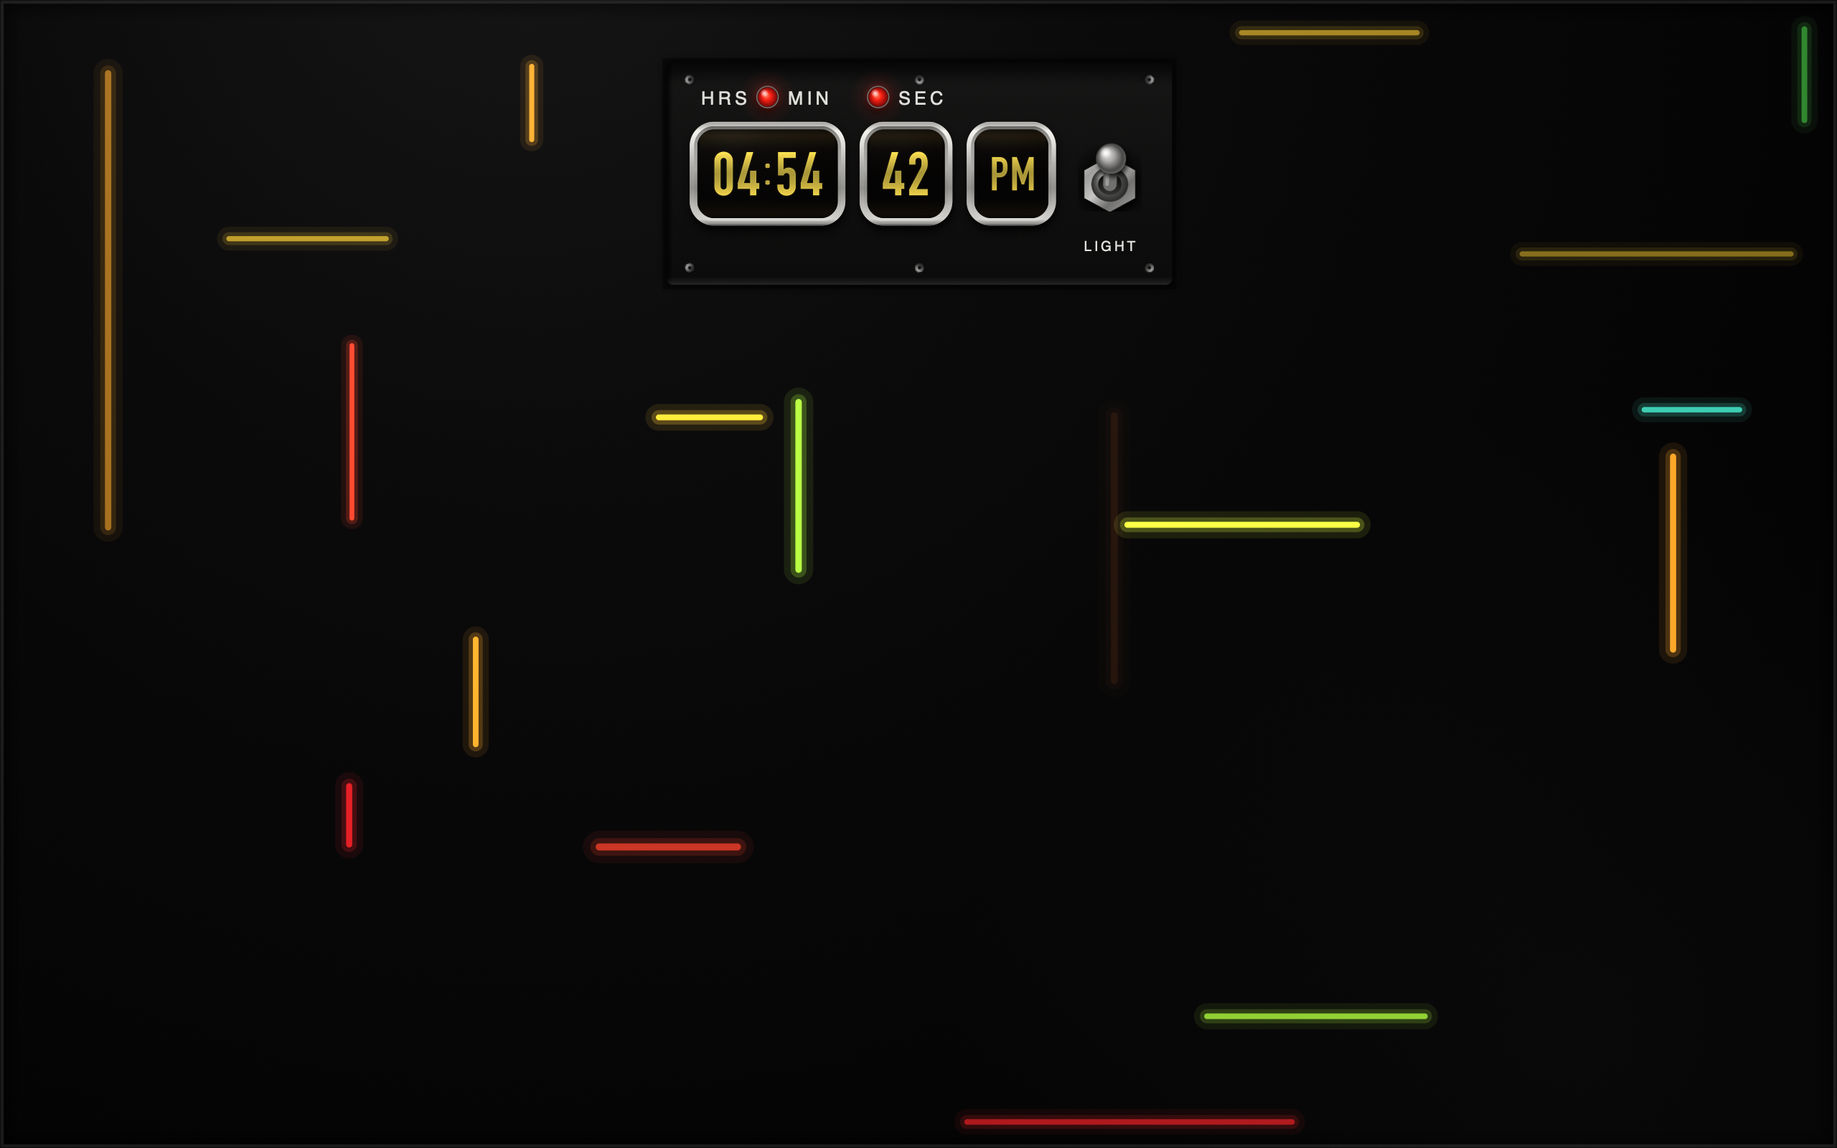
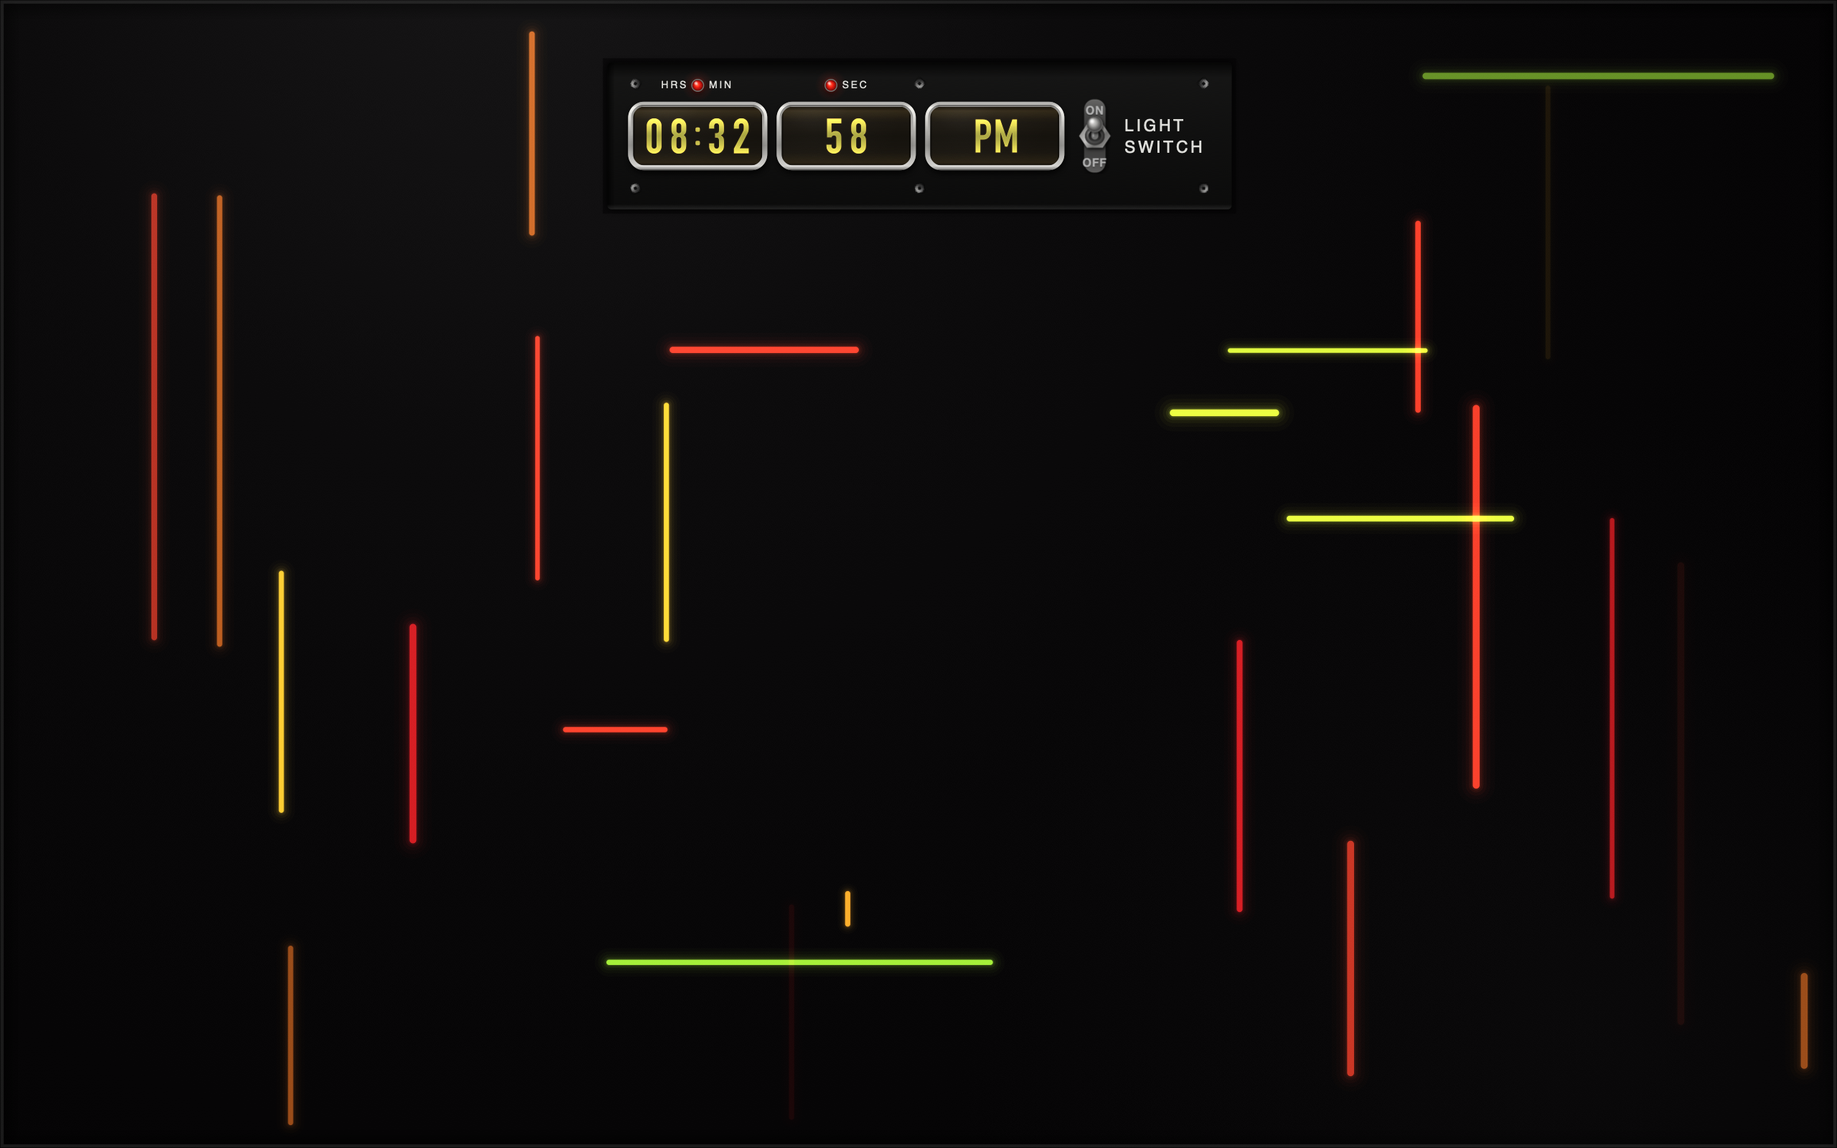
Visible barrel, matched windows, mounted switch, smooth diffusion
- The drum is a dark warm grey surface rather than black. Against black the
  numerals had nothing to sit on and simply floated.
- All three apertures are one size at a chosen 2.2:1. Window width used to be
  whatever remained after the switch and gaps were subtracted, which is how
  they drifted to slightly taller than wide.
- CounterWindow accepts a fixed pitch, so windows of equal width holding two
  and five characters draw their digits at the same size. Without it each
  window scaled to fill itself and PM came out far larger than the clock.
- The toggle is on its ON/OFF mounting plate with the hex nut overhanging the
  plate edges, and the legend is set left-justified on two lines beside it.
- Bar diffusion falls off over six steps instead of three. Three widely spaced
  passes left the outermost with a hard boundary, which read as an outline
  drawn around the glow.

Two bugs fixed:

- Roll distance was keyed to digit height alone. Once the shared pitch made
  glyphs small relative to the aperture, the outgoing digit had not cleared
  before the incoming one arrived and both readings showed at once, stacked.
  It now also accounts for aperture height.
- The bloom pass loop was hardcoded to three iterations, so widening the ramp
  to six drew only the three dimmest passes and the core never rendered. It
  follows the array's indices now.

diff --git a/src/Hardware.swift b/src/Hardware.swift
@@ -171,17 +171,15 @@ enum Hardware {
     /// frame.
     private static var toggleCache: [Int: CGImage] = [:]
 
-    /// Image proportions: a little taller than wide, the nut low and the lever
-    /// rising out of it.
-    static let toggleAspect: CGFloat = 1.18
+    /// Image proportions: a tall mounting plate with the nut across its waist.
+    static let toggleAspect: CGFloat = 2.35
 
-    /// A bat-handle toggle as it appears on the prop: a chrome hex nut set into
-    /// the panel with a ball-tipped lever thrown up out of it. No ON/OFF
-    /// escutcheon — on the show the caption is printed on the panel alongside,
-    /// and the stamped plate is what forced the fitting to be large.
+    /// A bat-handle toggle on its mounting plate: ON stamped at the top, OFF at
+    /// the bottom, a hex nut across the waist whose points stand out past the
+    /// plate edges, and a ball-tipped lever thrown up out of the bushing.
     static func drawToggle(_ ctx: CGContext, at c: CGPoint, scale s: CGFloat,
                            thrownUp: Bool = true) {
-        let px = max(20, Int((s * 3.0).rounded()))
+        let px = max(24, Int((s * 3.0).rounded()))
         let img: CGImage
         if let cached = toggleCache[px] {
             img = cached
@@ -204,29 +202,63 @@ enum Hardware {
                                   bitmapInfo: CGImageAlphaInfo.premultipliedFirst.rawValue)
         else { return nil }
 
-        let nutC = CGPoint(x: W / 2, y: H * 0.36)
-        let nutR = W * 0.46
+        let mid = CGPoint(x: W / 2, y: H / 2)
 
-        // The panel opening the bushing passes through.
+        // Mounting plate. Narrower than the image so the nut can overhang it.
+        let plate = CGRect(x: W * 0.17, y: H * 0.015, width: W * 0.66, height: H * 0.97)
+        let pr = plate.width * 0.46
         ctx.saveGState()
-        if let g = grad([(0.0, black(0.55)), (1.0, black(0.0))]) {
-            ctx.drawRadialGradient(g, startCenter: nutC, startRadius: nutR * 0.9,
-                                   endCenter: nutC, endRadius: nutR * 1.45, options: [])
+        ctx.setShadow(offset: CGSize(width: W * 0.035, height: -W * 0.06),
+                      blur: W * 0.14, color: black(0.85))
+        ctx.addPath(CGPath(roundedRect: plate, cornerWidth: pr, cornerHeight: pr, transform: nil))
+        ctx.setFillColor(steel(0.26))
+        ctx.fillPath()
+        ctx.restoreGState()
+
+        ctx.saveGState()
+        ctx.addPath(CGPath(roundedRect: plate, cornerWidth: pr, cornerHeight: pr, transform: nil))
+        ctx.clip()
+        if let g = grad([(0.00, steel(0.40)), (0.22, steel(0.27)), (0.50, steel(0.20)),
+                         (0.78, steel(0.26)), (1.00, steel(0.36))]) {
+            ctx.drawLinearGradient(g, start: CGPoint(x: plate.minX, y: plate.maxY),
+                                   end: CGPoint(x: plate.minX, y: plate.minY), options: [])
         }
         ctx.restoreGState()
 
-        // Hex nut, flats catching the light differently around the turn.
+        // ON / OFF, raised off the plate: a light face with a dark edge beneath.
+        func stamped(_ text: String, cy: CGFloat, size: CGFloat) {
+            let font = NSFont(name: "Helvetica-Bold", size: size) ?? .boldSystemFont(ofSize: size)
+            let passes: [(CGFloat, NSColor)] = [
+                (-size * 0.06, NSColor(white: 0.04, alpha: 0.85)),   // shadow under the relief
+                (0.0, NSColor(white: 0.78, alpha: 0.95)),            // the raised face
+            ]
+            NSGraphicsContext.saveGraphicsState()
+            NSGraphicsContext.current = NSGraphicsContext(cgContext: ctx, flipped: false)
+            for (dy, col) in passes {
+                let a = NSAttributedString(string: text, attributes: [
+                    .font: font, .foregroundColor: col, .kern: size * 0.04,
+                ])
+                let sz = a.size()
+                a.draw(at: NSPoint(x: mid.x - sz.width / 2, y: cy - sz.height / 2 + dy))
+            }
+            NSGraphicsContext.restoreGraphicsState()
+        }
+        stamped("ON",  cy: H * 0.845, size: W * 0.36)
+        stamped("OFF", cy: H * 0.150, size: W * 0.36)
+
+        // Hex nut across the waist, points overhanging the plate.
+        let nutR = W * 0.49
         let hex = CGMutablePath()
         for k in 0 ..< 6 {
-            let a = CGFloat(k) / 6 * .pi * 2 + .pi / 6
-            let p = CGPoint(x: nutC.x + cos(a) * nutR, y: nutC.y + sin(a) * nutR * 0.94)
+            let a = CGFloat(k) / 6 * .pi * 2
+            let p = CGPoint(x: mid.x + cos(a) * nutR, y: mid.y + sin(a) * nutR * 0.86)
             if k == 0 { hex.move(to: p) } else { hex.addLine(to: p) }
         }
         hex.closeSubpath()
 
         ctx.saveGState()
         ctx.setShadow(offset: CGSize(width: W * 0.03, height: -W * 0.05),
-                      blur: W * 0.09, color: black(0.8))
+                      blur: W * 0.10, color: black(0.8))
         ctx.addPath(hex)
         ctx.setFillColor(steel(0.5))
         ctx.fillPath()
@@ -235,54 +267,52 @@ enum Hardware {
         ctx.saveGState()
         ctx.addPath(hex)
         ctx.clip()
-        if let g = grad([(0.00, steel(0.88)), (0.24, steel(0.62)), (0.46, steel(0.78)),
-                         (0.66, steel(0.44)), (0.86, steel(0.58)), (1.00, steel(0.28))]) {
-            ctx.drawLinearGradient(g, start: CGPoint(x: nutC.x - nutR, y: nutC.y + nutR),
-                                   end: CGPoint(x: nutC.x + nutR, y: nutC.y - nutR), options: [])
+        if let g = grad([(0.00, steel(0.86)), (0.22, steel(0.58)), (0.44, steel(0.76)),
+                         (0.64, steel(0.42)), (0.84, steel(0.56)), (1.00, steel(0.26))]) {
+            ctx.drawLinearGradient(g, start: CGPoint(x: mid.x - nutR, y: mid.y + nutR),
+                                   end: CGPoint(x: mid.x + nutR, y: mid.y - nutR), options: [])
         }
         ctx.restoreGState()
 
-        // Bushing collar inside the nut.
+        // Bushing, then the dark recess the lever comes out of.
         ctx.saveGState()
-        let br = W * 0.29
-        ctx.addEllipse(in: CGRect(x: nutC.x - br, y: nutC.y - br * 0.94,
-                                  width: br * 2, height: br * 1.88))
+        let br = W * 0.31
+        ctx.addEllipse(in: CGRect(x: mid.x - br, y: mid.y - br * 0.92,
+                                  width: br * 2, height: br * 1.84))
         ctx.clip()
-        if let g = grad([(0.0, steel(0.74)), (0.5, steel(0.40)), (1.0, steel(0.16))]) {
-            ctx.drawRadialGradient(g, startCenter: CGPoint(x: nutC.x - br * 0.4, y: nutC.y + br * 0.4),
-                                   startRadius: 0, endCenter: nutC, endRadius: br, options: [])
+        if let g = grad([(0.0, steel(0.78)), (0.5, steel(0.42)), (1.0, steel(0.16))]) {
+            ctx.drawRadialGradient(g, startCenter: CGPoint(x: mid.x - br * 0.4, y: mid.y + br * 0.4),
+                                   startRadius: 0, endCenter: mid, endRadius: br, options: [])
         }
         ctx.restoreGState()
-
-        // The dark recess the lever emerges from.
         ctx.saveGState()
-        let rr = W * 0.185
-        ctx.addEllipse(in: CGRect(x: nutC.x - rr, y: nutC.y - rr * 0.9,
+        let rr = W * 0.20
+        ctx.addEllipse(in: CGRect(x: mid.x - rr, y: mid.y - rr * 0.9,
                                   width: rr * 2, height: rr * 1.8))
         ctx.clip()
-        if let g = grad([(0.0, black(0.95)), (1.0, steel(0.22))]) {
-            ctx.drawLinearGradient(g, start: CGPoint(x: nutC.x, y: nutC.y + rr),
-                                   end: CGPoint(x: nutC.x, y: nutC.y - rr), options: [])
+        if let g = grad([(0.0, black(0.95)), (1.0, steel(0.24))]) {
+            ctx.drawLinearGradient(g, start: CGPoint(x: mid.x, y: mid.y + rr),
+                                   end: CGPoint(x: mid.x, y: mid.y - rr), options: [])
         }
         ctx.restoreGState()
 
-        // Lever thrown up, foreshortened, with a ball tip.
-        let ballC = CGPoint(x: nutC.x + W * 0.02, y: nutC.y + W * 0.40)
+        // Lever thrown up, with a ball tip.
+        let ballC = CGPoint(x: mid.x, y: mid.y + W * 0.36)
         ctx.saveGState()
         ctx.setLineCap(.round)
         ctx.setStrokeColor(steel(0.44))
-        ctx.setLineWidth(W * 0.215)
-        ctx.move(to: nutC)
+        ctx.setLineWidth(W * 0.22)
+        ctx.move(to: mid)
         ctx.addLine(to: ballC)
         ctx.strokePath()
-        ctx.setStrokeColor(white(0.34))
+        ctx.setStrokeColor(white(0.32))
         ctx.setLineWidth(W * 0.055)
-        ctx.move(to: CGPoint(x: nutC.x - W * 0.045, y: nutC.y))
+        ctx.move(to: CGPoint(x: mid.x - W * 0.045, y: mid.y))
         ctx.addLine(to: CGPoint(x: ballC.x - W * 0.045, y: ballC.y - W * 0.04))
         ctx.strokePath()
         ctx.restoreGState()
 
-        let ballR = W * 0.235
+        let ballR = W * 0.245
         ctx.saveGState()
         ctx.setShadow(offset: CGSize(width: W * 0.035, height: -W * 0.05),
                       blur: W * 0.08, color: black(0.75))
@@ -295,7 +325,7 @@ enum Hardware {
                                   width: ballR * 2, height: ballR * 2))
         ctx.clip()
         if let g = grad([(0.0, steel(0.97)), (0.40, steel(0.66)),
-                         (0.78, steel(0.28)), (1.0, steel(0.44))]) {
+                         (0.78, steel(0.28)), (1.0, steel(0.46))]) {
             ctx.drawRadialGradient(g,
                                    startCenter: CGPoint(x: ballC.x - ballR * 0.36,
                                                         y: ballC.y + ballR * 0.38),

diff --git a/src/M5ClockView.swift b/src/M5ClockView.swift
@@ -21,6 +21,9 @@ public class M5ClockView: M5PanelView {
     private var clockTime: TimeInterval = 0
     private var clockDrift: Double = 0
 
+    /// Aperture proportion: wide rather than square, as on the prop.
+    private static let windowAspect: CGFloat = 2.2
+
     /// How far the module wanders, as a fraction of the smaller screen
     /// dimension. Small, because it is already close to an edge.
     private static let driftAmp: CGFloat = 0.010
@@ -42,8 +45,8 @@ public class M5ClockView: M5PanelView {
     /// The module plate for a given drift offset. Derived from `bounds` only,
     /// so it is safe to call before the subclass is fully set up.
     private func plate(offsetBy d: CGSize) -> CGRect {
-        let w = min(bounds.width * 0.275, bounds.height * 0.54)
-        let h = w * 0.44
+        let w = min(bounds.width * 0.340, bounds.height * 0.68)
+        let h = w * 0.235
         return CGRect(x: bounds.midX - w / 2 + d.width,
                       y: bounds.maxY - h - bounds.height * 0.055 + d.height,
                       width: w, height: h)
@@ -120,22 +123,31 @@ public class M5ClockView: M5PanelView {
         // One digit pitch across all three, so the widths follow real content
         // rather than character count and the drums look like one instrument.
         // The switch shares the readout row rather than taking a second one.
-        let togS = winH * 0.72
-        let togSlot = togS + gap
+        // Sized by height: the plate is 2.35x as tall as it is wide.
+        let togS = winH * 0.55
+        let capSize = winH * 0.28
+        let capW = max(CounterChrome.labelWidth("LIGHT", size: capSize),
+                       CounterChrome.labelWidth("SWITCH", size: capSize))
+        let capClear = togS * 0.42
+        let togSlot = togS + capClear + capW + gap
 
-        let totalUnits = texts.reduce(CGFloat(0)) { $0 + CounterWindow.units(for: $1) }
-        let totalPad = CGFloat(texts.count) * 2 * winH * CounterWindow.padFraction
+        // Every window the same size and a chosen proportion. Dividing up
+        // whatever space is left over gives the apertures an arbitrary shape —
+        // that is how they ended up nearly square.
+        let eachW = winH * M5ClockView.windowAspect
+        let widestUnits = texts.reduce(CGFloat(0)) { max($0, CounterWindow.units(for: $1)) }
         let gaps = gap * CGFloat(texts.count - 1)
-        let pitch = max(1, (content - togSlot - gaps - totalPad) / max(1, totalUnits))
+        let pitch = max(1, (eachW - 2 * winH * CounterWindow.padFraction) / max(1, widestUnits))
 
-        let lampR = p.height * 0.043
+        let lampR = p.height * 0.036
         let lampY = p.maxY - p.height * 0.155
-        let labelSize = p.height * 0.082
+        let labelSize = p.height * 0.068
 
-        var x = p.midX - content / 2
+        let groupW = eachW * CGFloat(texts.count) + gaps + togSlot
+        var x = p.midX - groupW / 2
         for (i, text) in texts.enumerated() {
-            let w = CounterWindow.apertureWidth(for: text, pitch: pitch, height: winH)
-            let r = CGRect(x: x, y: winY, width: w, height: winH)
+            let r = CGRect(x: x, y: winY, width: eachW, height: winH)
+            windows[i].fixedPitch = pitch
             windows[i].draw(ctx, in: r)
 
             // The prop puts the lamps inline with the captions rather than one
@@ -168,15 +180,16 @@ public class M5ClockView: M5PanelView {
             default:
                 break
             }
-            x += w + gap
+            x += eachW + gap
         }
 
-        // Light switch alongside the readouts, captioned on the panel as on
-        // the prop. A static fitting, like the screws — not a control.
-        let togX = p.midX + content / 2 - togS / 2
-        Hardware.drawToggle(ctx, at: CGPoint(x: togX, y: winY + winH / 2), scale: togS)
-        CounterChrome.drawLabel(ctx, "LIGHT",
-                                centeredAt: CGPoint(x: togX, y: p.minY + p.height * 0.175),
-                                size: p.height * 0.062)
+        // Light switch alongside the readouts, legend set to its right in two
+        // lines as on the prop. A static fitting, like the screws.
+        let togX = p.midX + groupW / 2 - togSlot + gap + togS / 2
+        let rowMidY = winY + winH / 2
+        Hardware.drawToggle(ctx, at: CGPoint(x: togX, y: rowMidY), scale: togS)
+        CounterChrome.drawLegend(ctx, ["LIGHT", "SWITCH"],
+                                 leftAt: CGPoint(x: togX + togS / 2 + capClear, y: rowMidY),
+                                 size: capSize)
     }
 }

diff --git a/src/CounterWindow.swift b/src/CounterWindow.swift
@@ -12,7 +12,9 @@ import CoreText
 // Type-scoped rather than file-scope globals on purpose — see the README note
 // about file-scope `let` crashing once the bundle is dlopen'd.
 enum CounterStyle {
-    static let windowFill = CGColor(red: 0.020, green: 0.017, blue: 0.014, alpha: 1)
+    /// The drum is a physical surface, so it is a dark warm grey rather than
+    /// black. Against black the numerals just float.
+    static let windowFill = CGColor(red: 0.118, green: 0.101, blue: 0.076, alpha: 1)
     static let amber      = (r: CGFloat(0.965), g: CGFloat(0.820), b: CGFloat(0.290))
     static let label      = CGColor(red: 0.87, green: 0.87, blue: 0.855, alpha: 1)
 
@@ -83,6 +85,12 @@ final class CounterWindow {
     /// Seconds for a digit to roll over. At 60fps this is ~12 frames, enough
     /// to read as a wheel turning rather than a snap.
     var rollDuration: Double = 0.20
+
+    /// When set, the reading uses this cell pitch instead of scaling to fill
+    /// its own aperture, so several windows can share one digit size. Without
+    /// it, an equal-width window holding two characters draws them far larger
+    /// than one holding five.
+    var fixedPitch: CGFloat?
 
     var face: DigitFace = .drum {
         didSet { unitPaths.removeAll() }
@@ -181,14 +189,17 @@ final class CounterWindow {
         let inner = win.insetBy(dx: padX, dy: 0)
         let units = slots.reduce(CGFloat(0)) { $0 + advanceWidth($1.current) }
         let gap = CounterWindow.cellGap
-        let pitch = inner.width / (units + gap * CGFloat(slots.count - 1))
+        let pitch = fixedPitch ?? (inner.width / (units + gap * CGFloat(slots.count - 1)))
         // Cap the glyph height so the widest character still fits its cell.
         var digitH = win.height * 0.60
         let ratio = widestGlyphRatio()
         if ratio > 0 { digitH = min(digitH, pitch / ratio) }
         let digitY = win.midY - digitH / 2
 
-        var x = inner.minX
+        // Centre the reading in the aperture: with every window the same size,
+        // a two-character reading would otherwise sit hard against the left.
+        let readingW = pitch * units + pitch * gap * CGFloat(max(0, slots.count - 1))
+        var x = inner.minX + max(0, inner.width - readingW) / 2
         for slot in slots {
             let cellW = pitch * advanceWidth(slot.current)
             let cell = CGRect(x: x, y: digitY, width: cellW, height: digitH)
@@ -211,7 +222,11 @@ final class CounterWindow {
                 // digit height, not the window height — on a real drum the
                 // next number sits right behind the last.
                 let p = CGFloat(easeInOutCubic(slot.roll))
-                let travel = digitH * 1.30
+                // Far enough that the outgoing digit has cleared the aperture
+                // before the incoming one is fully in. Keying this to digit
+                // height alone breaks once the glyphs are small relative to the
+                // window: both readings end up visible, stacked.
+                let travel = max(digitH * 1.30, (win.height + digitH) * 0.5)
                 drawGlyph(ctx, slot.previous, in: cell.offsetBy(dx: 0, dy: travel * p),
                           collecting: lit)
                 drawGlyph(ctx, slot.current,  in: cell.offsetBy(dx: 0, dy: -travel * (1 - p)),
@@ -688,6 +703,26 @@ enum CounterChrome {
                                    endCenter: sc, endRadius: r * 0.44, options: [])
         }
         ctx.restoreGState()
+    }
+
+    /// Left-justified caption, one line per element, as panel legends are set.
+    static func drawLegend(_ ctx: CGContext, _ lines: [String],
+                           leftAt p: CGPoint, size: CGFloat) {
+        let font = NSFont(name: "Helvetica", size: size) ?? .systemFont(ofSize: size)
+        let kern = size * 0.16
+        let lead = size * 1.32
+        let top = p.y + lead * CGFloat(lines.count - 1) / 2
+        NSGraphicsContext.saveGraphicsState()
+        NSGraphicsContext.current = NSGraphicsContext(cgContext: ctx, flipped: false)
+        for (i, line) in lines.enumerated() {
+            let a = NSAttributedString(string: line, attributes: [
+                .font: font,
+                .foregroundColor: NSColor(cgColor: CounterStyle.label) ?? .white,
+                .kern: kern,
+            ])
+            a.draw(at: NSPoint(x: p.x, y: top - lead * CGFloat(i) - a.size().height / 2))
+        }
+        NSGraphicsContext.restoreGraphicsState()
     }
 
     /// Rendered width of a label, so callers can space things against the real

diff --git a/src/M5PanelView.swift b/src/M5PanelView.swift
@@ -449,8 +449,11 @@ public class M5PanelView: ScreenSaverView {
         // core. plusLighter is saturating addition, so the three are
         // order-independent and can all be laid down in one visit to the bar —
         // no need for three passes over the whole array to get the core on top.
-        let widthMul: [CGFloat] = [4.6, 2.5, 1.0]
-        let alphaMul: [CGFloat] = [0.115, 0.25, 0.95]
+        // A smooth falloff. Three widely-spaced passes leave the outermost
+        // one with a hard boundary, which reads as an outline drawn around the
+        // glow rather than as diffusion; more, closer steps blend away.
+        let widthMul: [CGFloat] = [5.4, 4.1, 3.0, 2.1, 1.45, 1.0]
+        let alphaMul: [CGFloat] = [0.020, 0.030, 0.048, 0.075, 0.125, 0.92]
 
         for bar in bars {
             let (len, alpha) = barState(bar)
@@ -466,7 +469,7 @@ public class M5PanelView: ScreenSaverView {
             let end = CGPoint(x: bar.x + (bar.vertical ? 0 : len * bar.dir),
                               y: bar.y + (bar.vertical ? len * bar.dir : 0))
 
-            for pass in 0 ..< 3 {
+            for pass in widthMul.indices {
                 ctx.setStrokeColor(red: c.r, green: c.g, blue: c.b, alpha: a * alphaMul[pass])
                 ctx.setLineWidth(bar.thickness * (1.0 + (widthMul[pass] - 1.0) * tight))
                 ctx.move(to: start)
